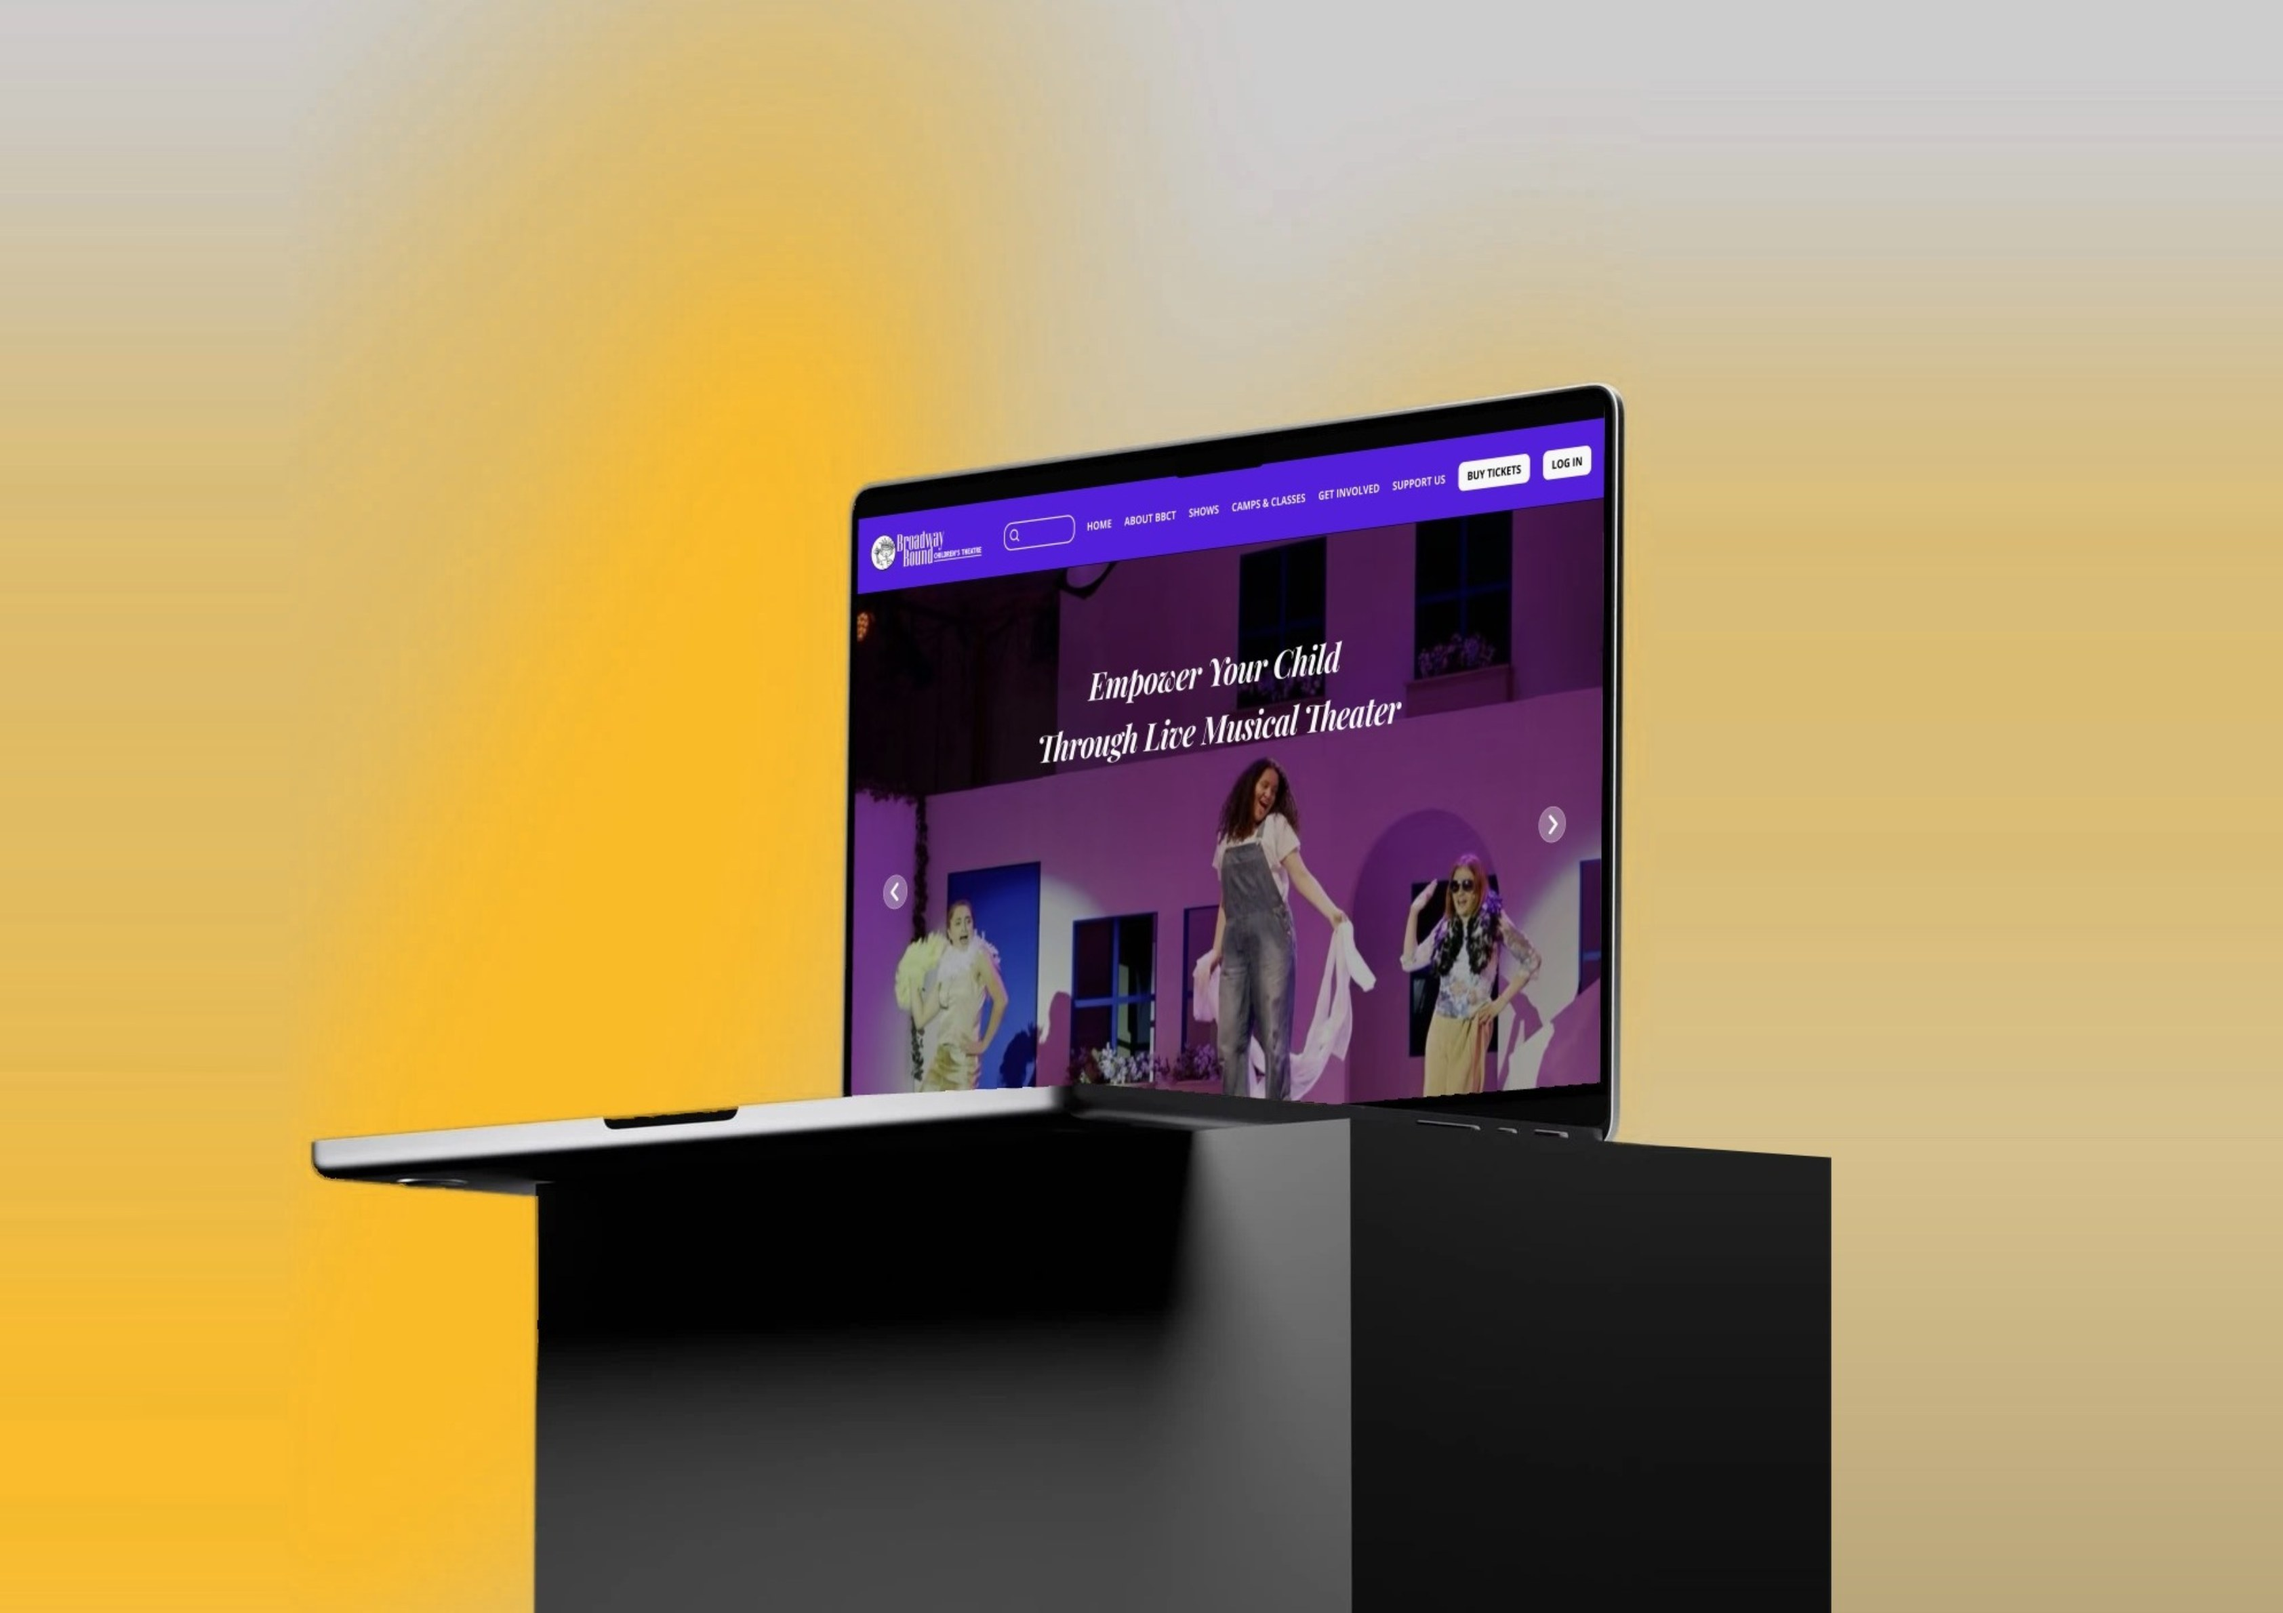
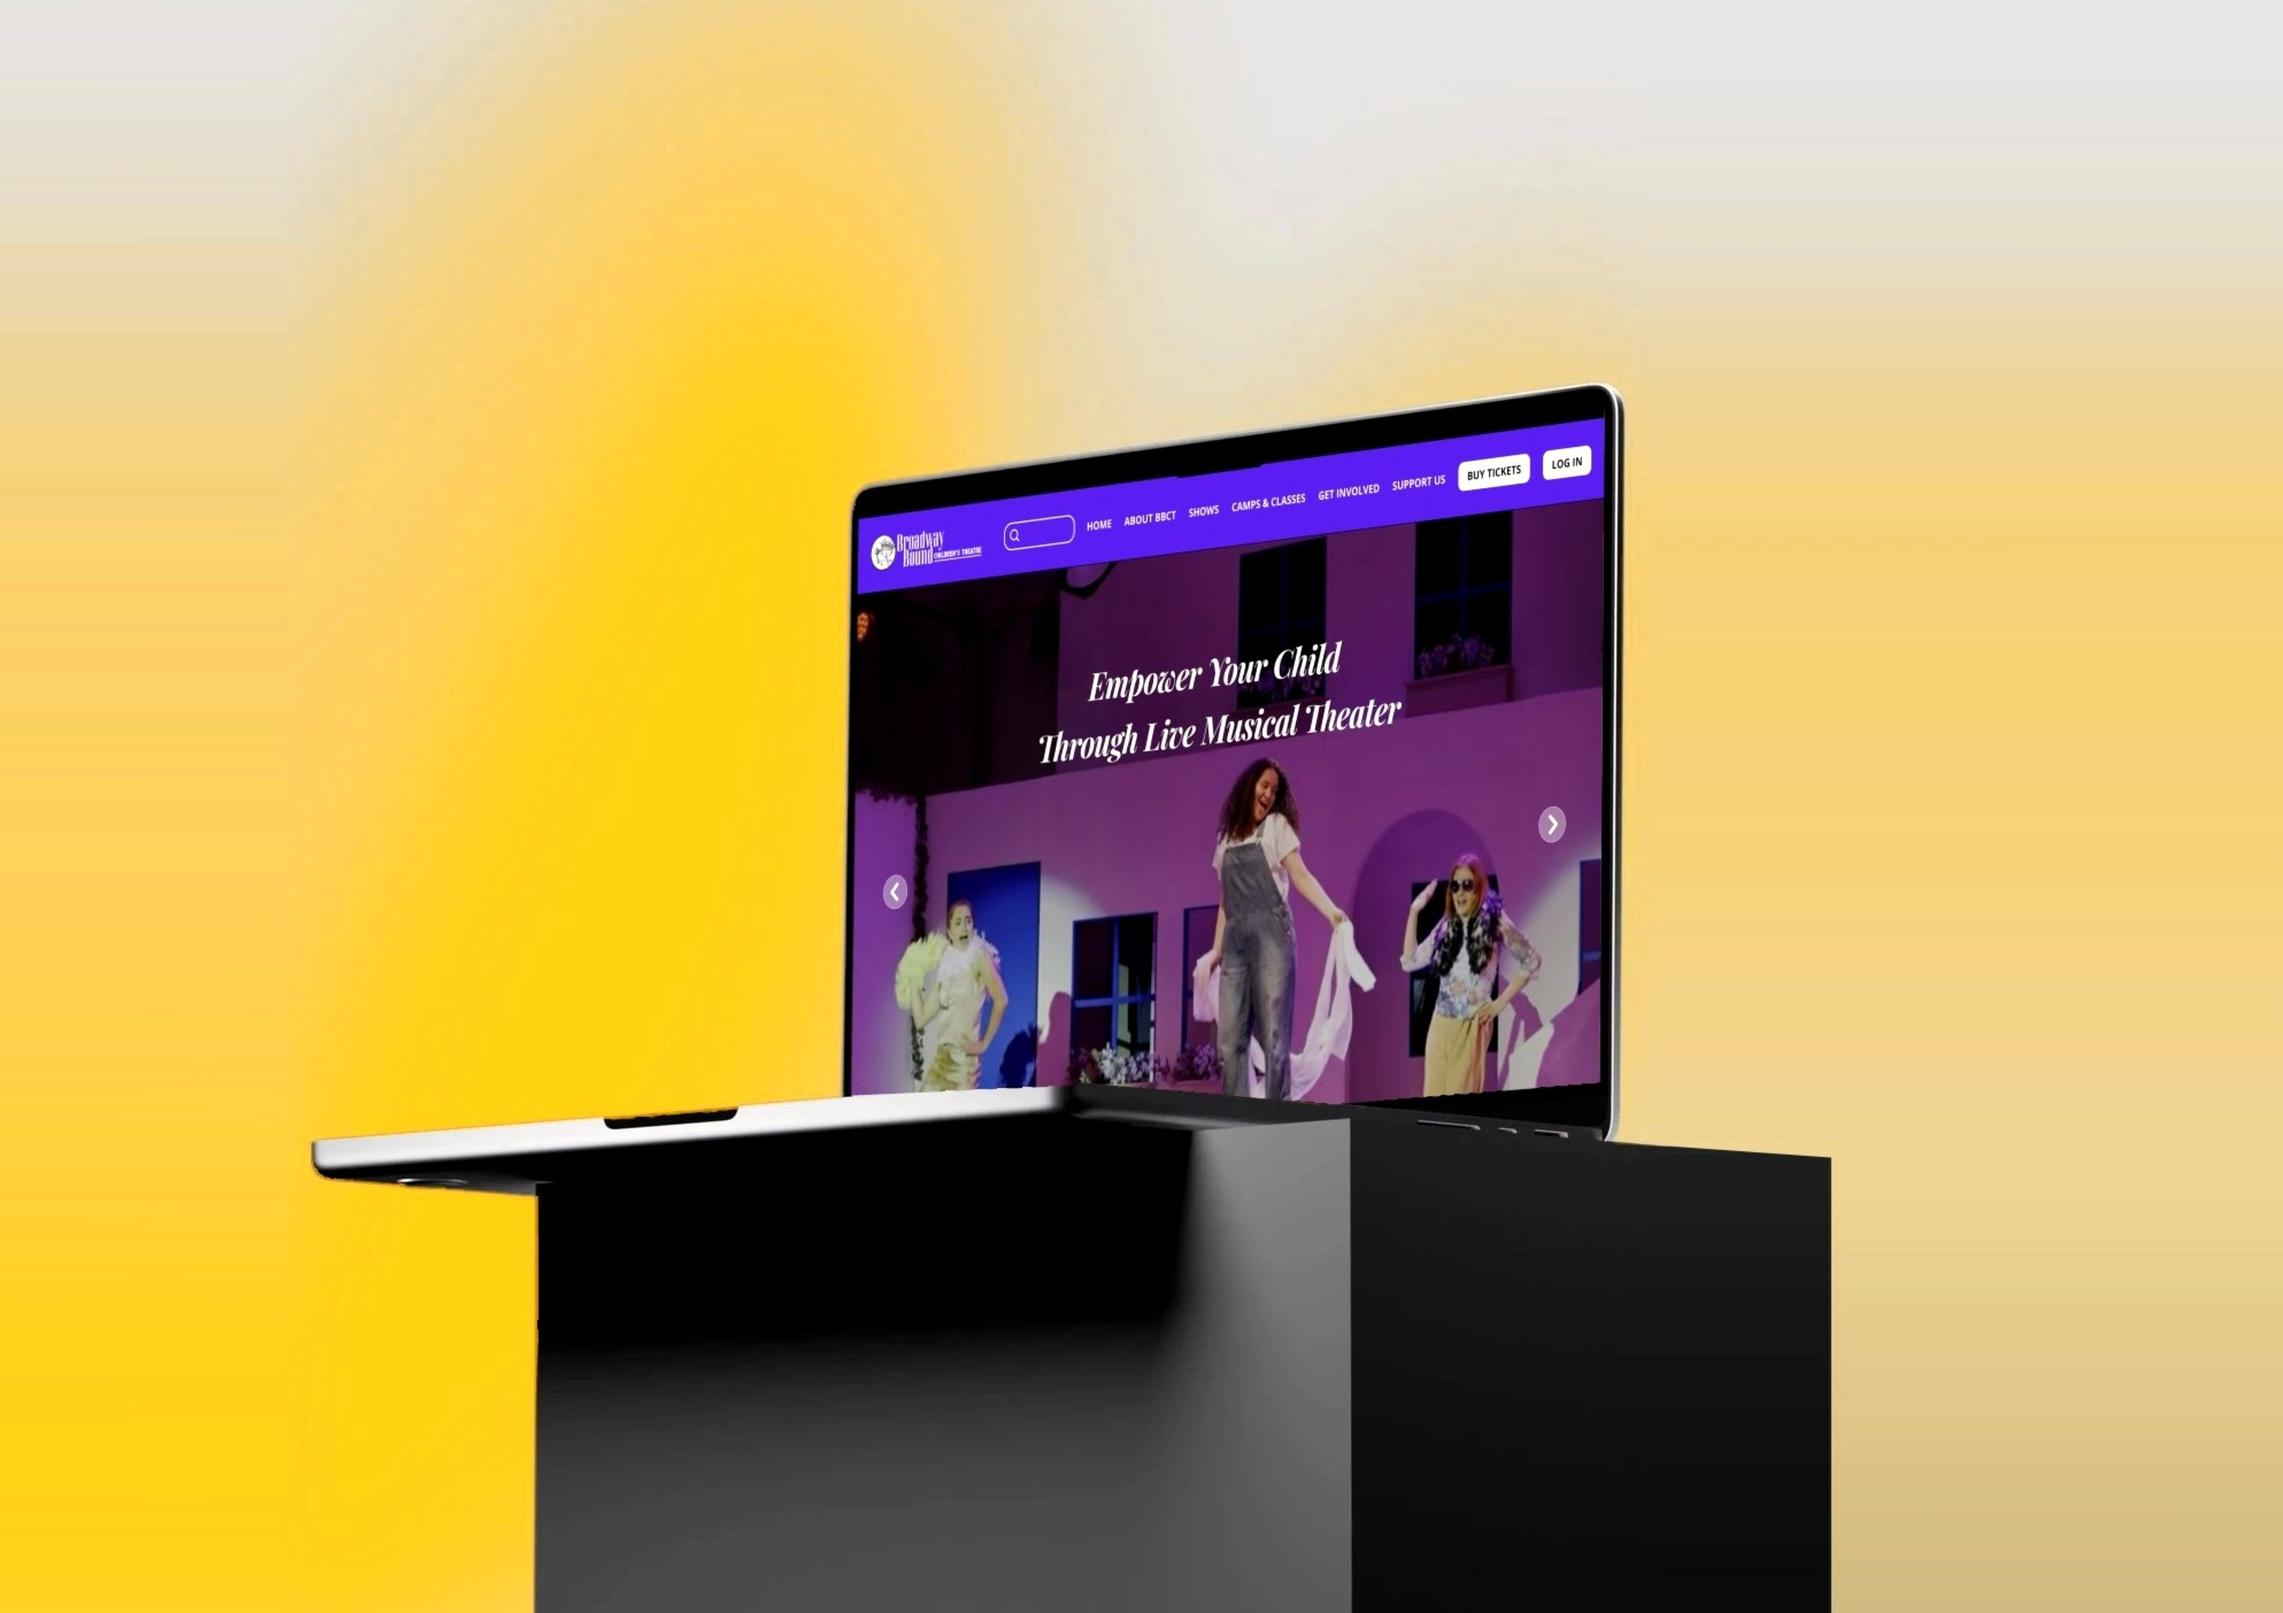
Brighten the Broadway Bound card image

diff --git a/index.html b/index.html
@@ -301,7 +301,7 @@
                     <ion-icon name="eye-outline"></ion-icon>
                   </div>
 
-                  <img src="./assets/images/project-8.jpg?v=20261027d" alt="Broadway Bound Children's Theatre website redesign" loading="lazy">
+                  <img src="./assets/images/project-8.jpg?v=20261027i" alt="Broadway Bound Children's Theatre website redesign" loading="lazy">
                 </figure>
 
                 <h3 class="project-title" data-i18n="project.bbct">Broadway Bound Children's Theatre · Website Redesign</h3>
